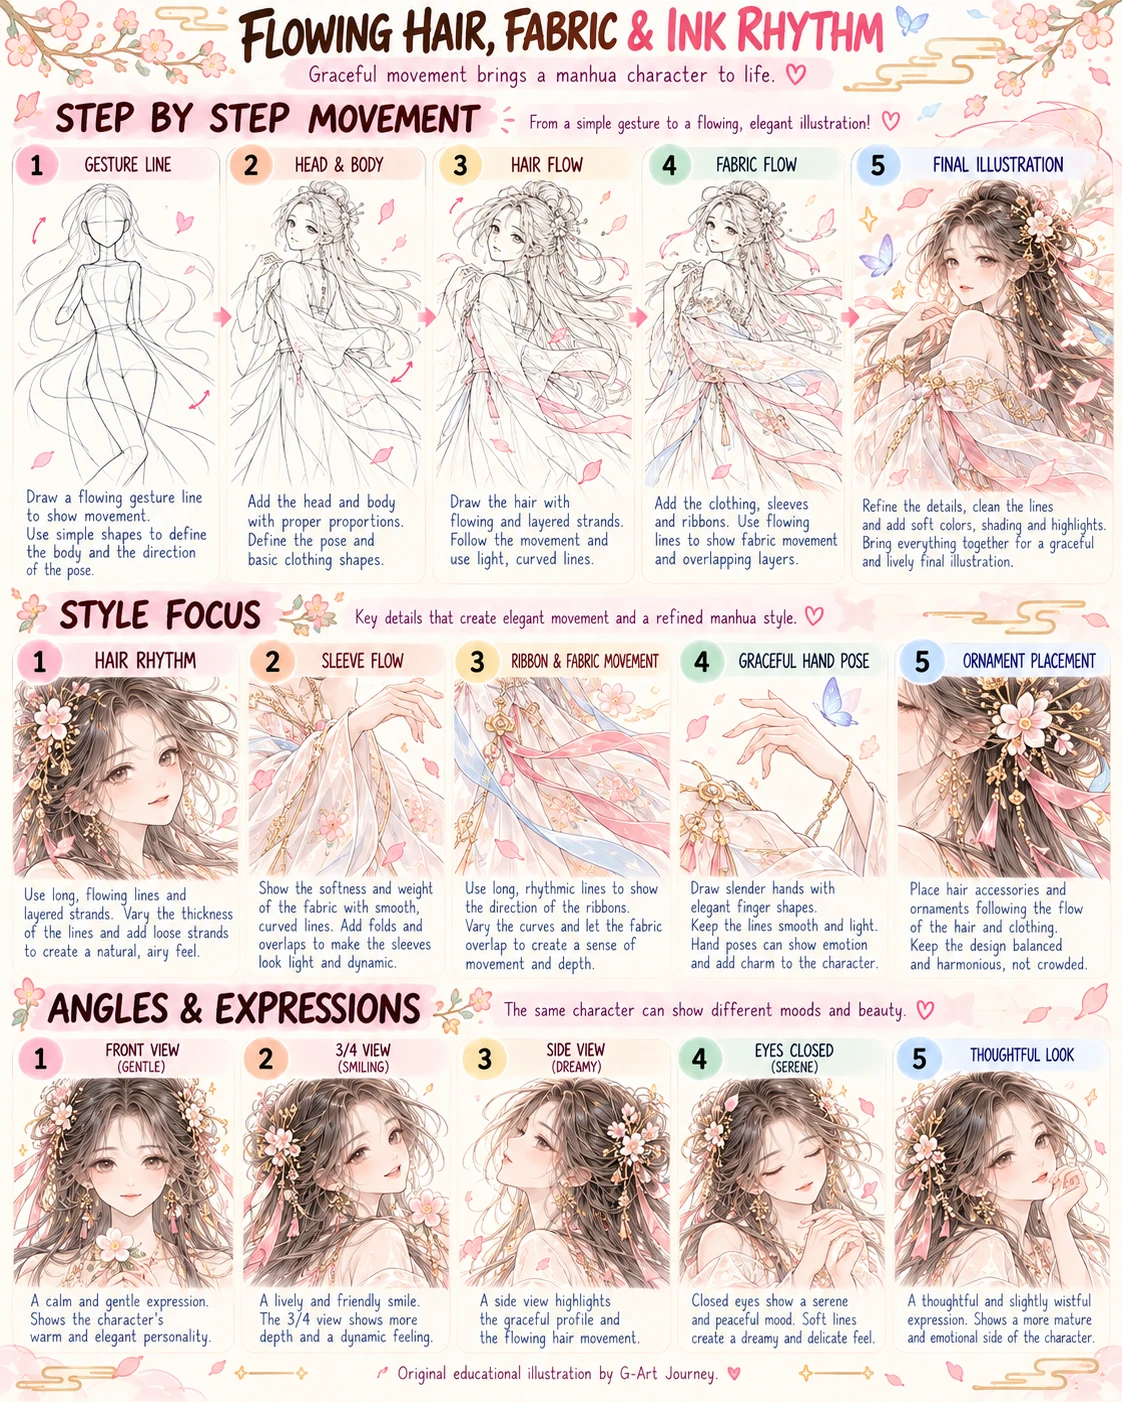
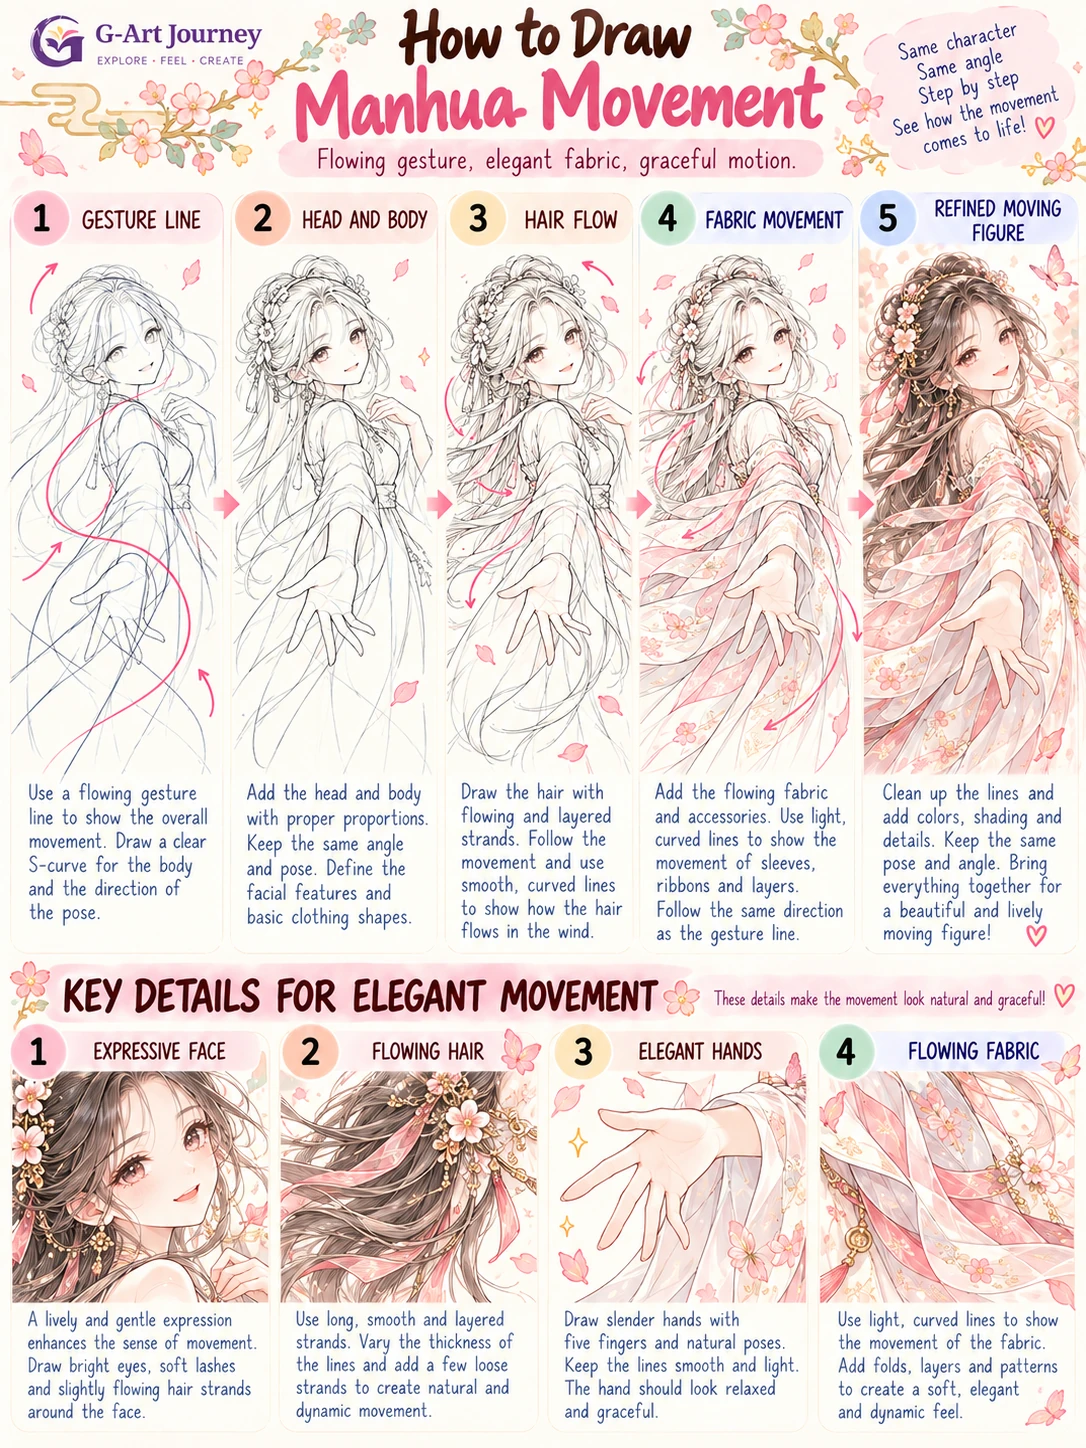
Replace approved Manhua Movement and Details posters (#18)

diff --git a/docs/ILLUSTRATION_STANDARD.md b/docs/ILLUSTRATION_STANDARD.md
@@ -35,3 +35,24 @@ A new card needs a distinguishable outcome and a visual example that proves it. 
 The approved `figure-proportions` and `standing-figure` posters remain unchanged. The first is a head-unit and body-landmark reference; the second is about gesture, supporting leg and standing balance. Their acknowledged scaffolding overlap is documented as an owner-approved historical exception, not a template for future duplication. 
 
 In Batch 02, manga face focuses on feature/hair/line design choices rather than re-teaching basic face construction; manga full figure compares stylized proportions and costume silhouettes rather than redoing the general standing-pose tutorial. Regional terms describe varied storytelling/art contexts and are not fixed face or body templates.
+
+## Human/character image QA — mandatory before publication
+
+For any infographic that contains people or human-like characters, explicitly inspect the final image at full size before publishing:
+
+- **correct anatomy / anatomically correct**: joints, limbs and visible body structure must read plausibly for the intended stylization.
+- **five fingers on each visible hand**: exactly five digits including one correctly placed thumb; reject extra, fused or missing fingers unless intentionally hidden by the pose.
+- **detailed hands**: hands should be drawn clearly enough to count fingers and understand the pose; tiny ambiguous hands should not carry a teaching point.
+- **balanced face**: eyes, nose, mouth and jaw must align coherently with the head angle; avoid accidental asymmetry or duplicated features.
+- **style-appropriate eyes**: clean, balanced and intentional. Realistic lessons need believable eye structure; stylized lessons may exaggerate while remaining internally consistent.
+- **natural facial expression**: brows, eyelids, mouth and cheeks should work together rather than contradict one another.
+- **detailed features**: teaching examples should have enough detail to demonstrate the skill without visual noise.
+- **proportionate body anatomy**: proportions may be stylized, but the chosen ratio must be deliberate and consistent within the lesson.
+- **clear framing**: use a deliberate full-length or medium shot when body/pose is being taught; do not crop hands, feet or key landmarks needed by the lesson.
+- **cumulative-step continuity**: when a poster is step-by-step, keep the same subject, camera angle and pose unless the lesson explicitly teaches a viewpoint change.
+
+AI-generated art gets a dedicated final anatomy pass. Hands are checked one by one, including small secondary examples. A visually attractive image does not pass QA if anatomy or step continuity is wrong.
+
+### Pencil/graphite exception to the color identity
+
+G-Art Journey keeps its typography, spacing, warm paper and gentle editorial character, but graphite lessons should not color the drawing itself. Use monochrome graphite/value studies, hatching, edges and paper texture; reserve pastel accents for headings, callouts or small navigation marks only. The medium should remain visibly pencil-first.
